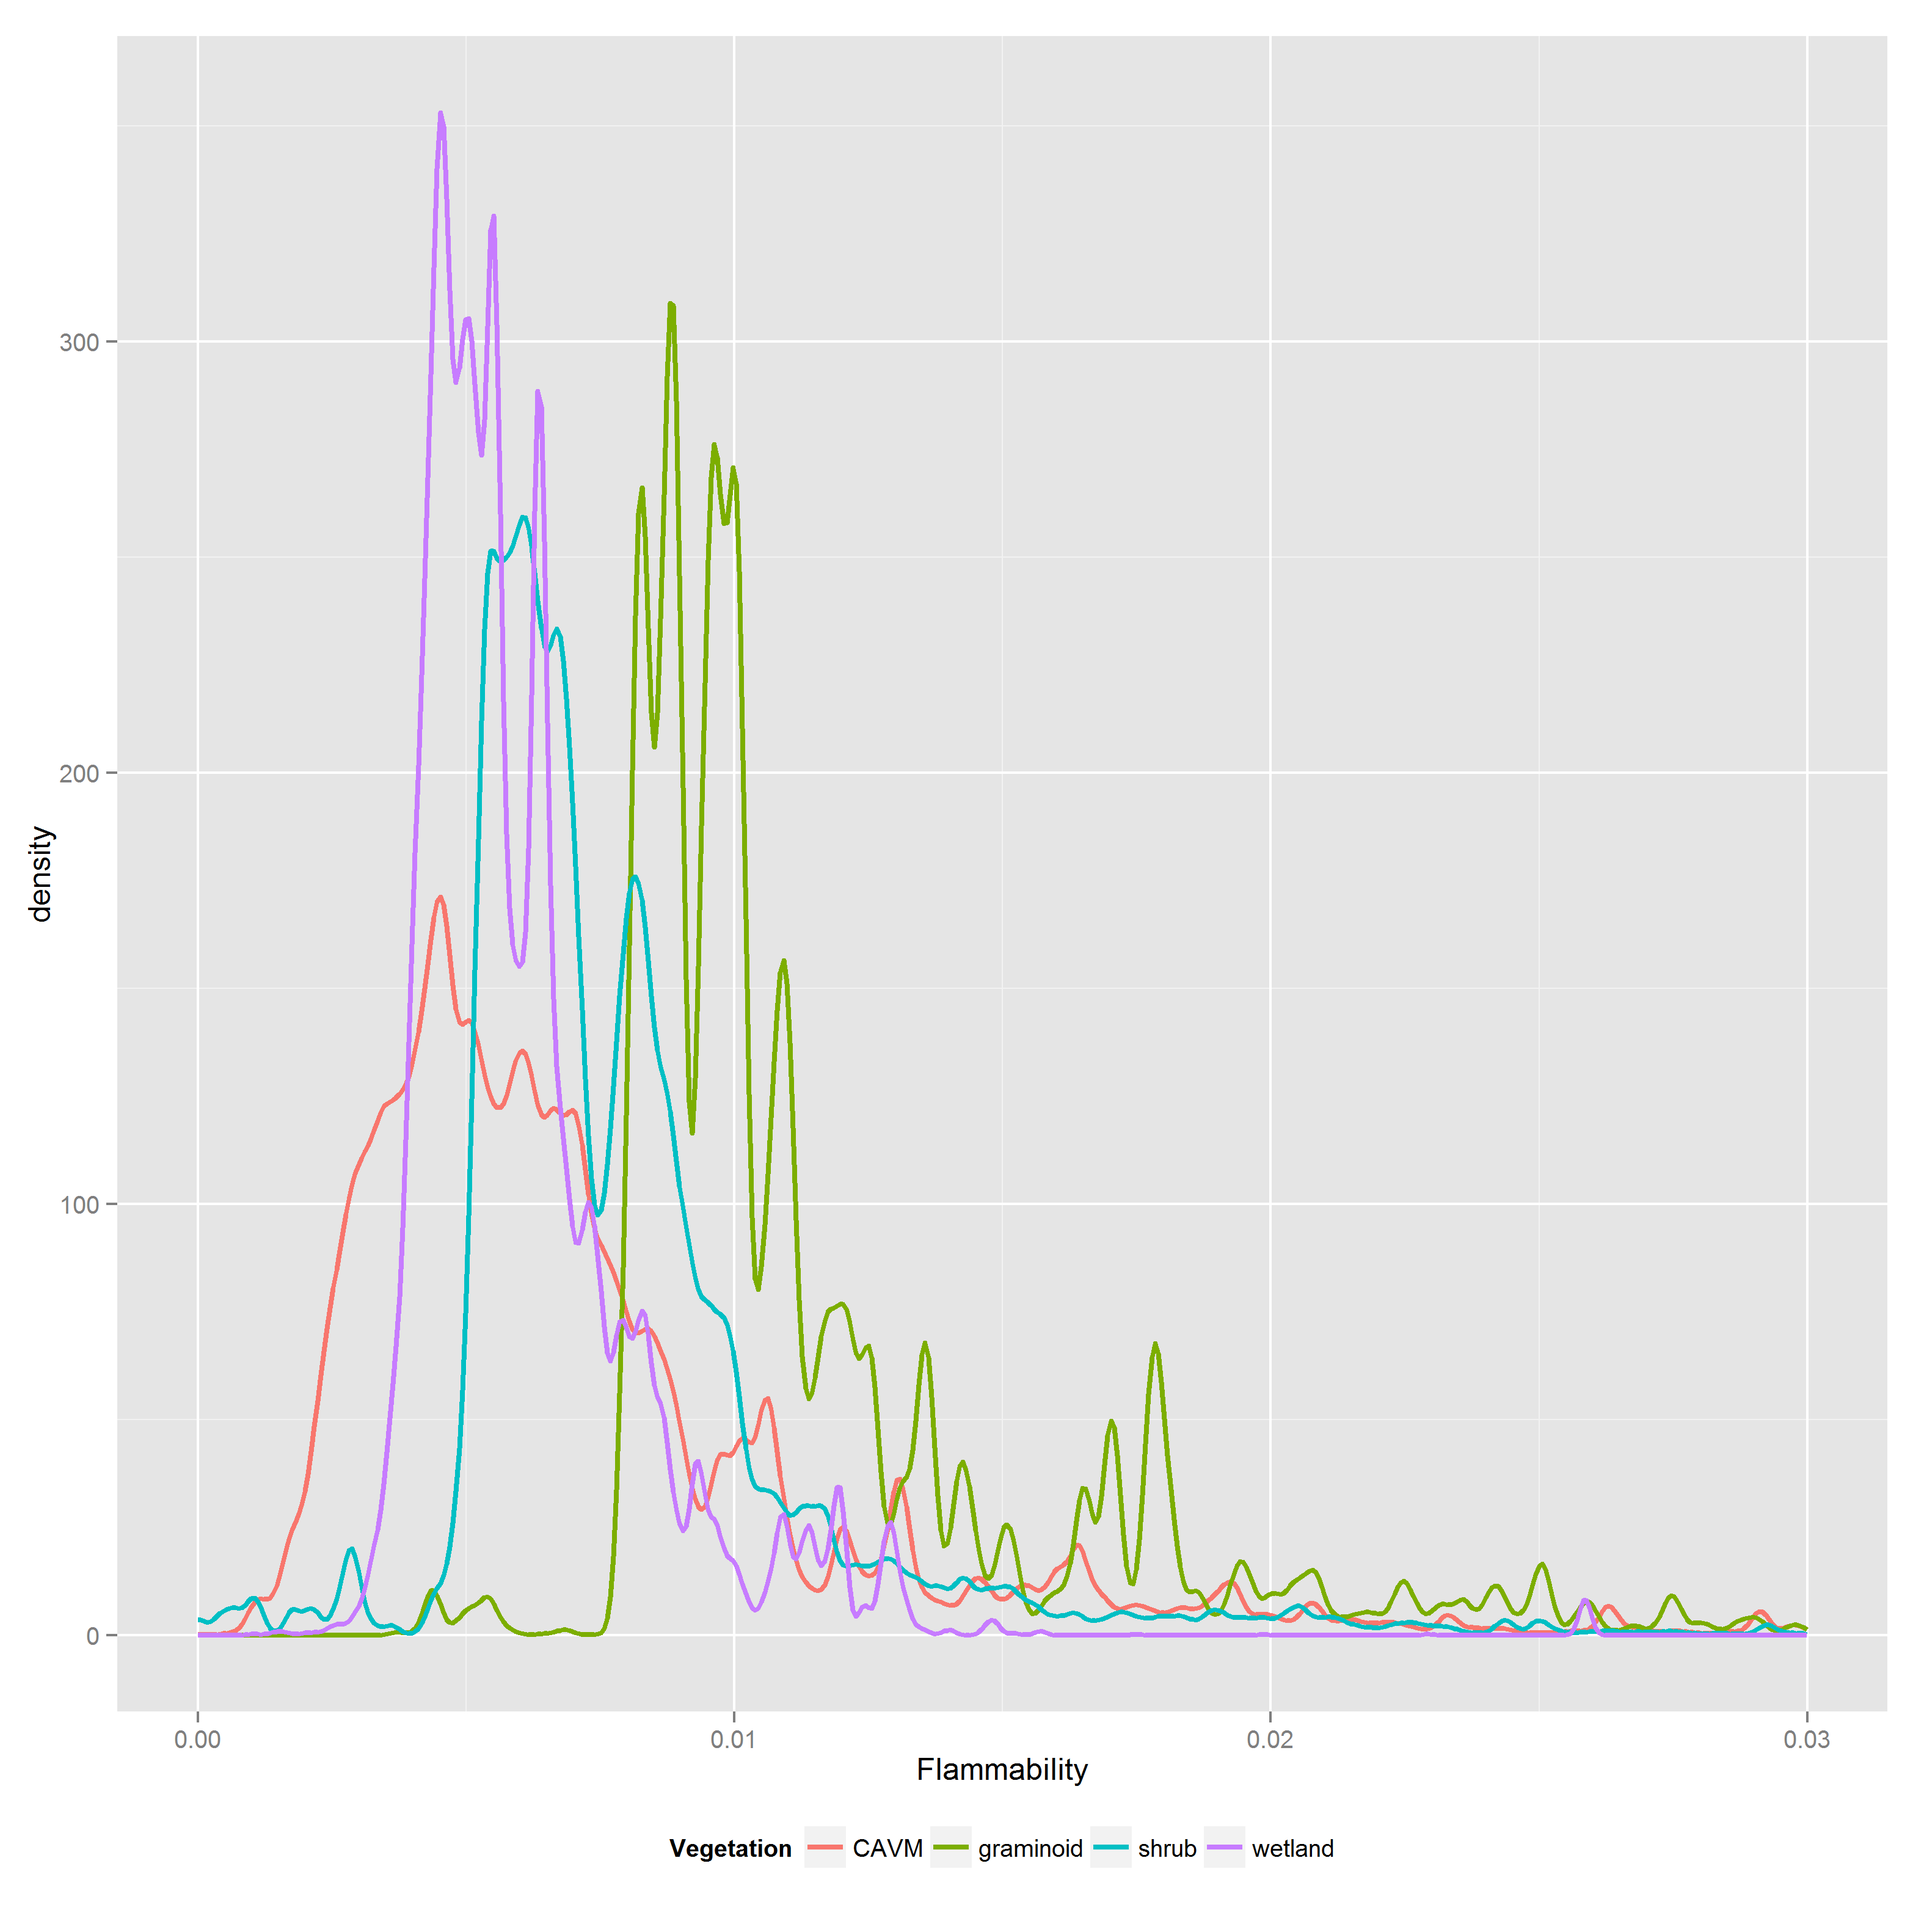
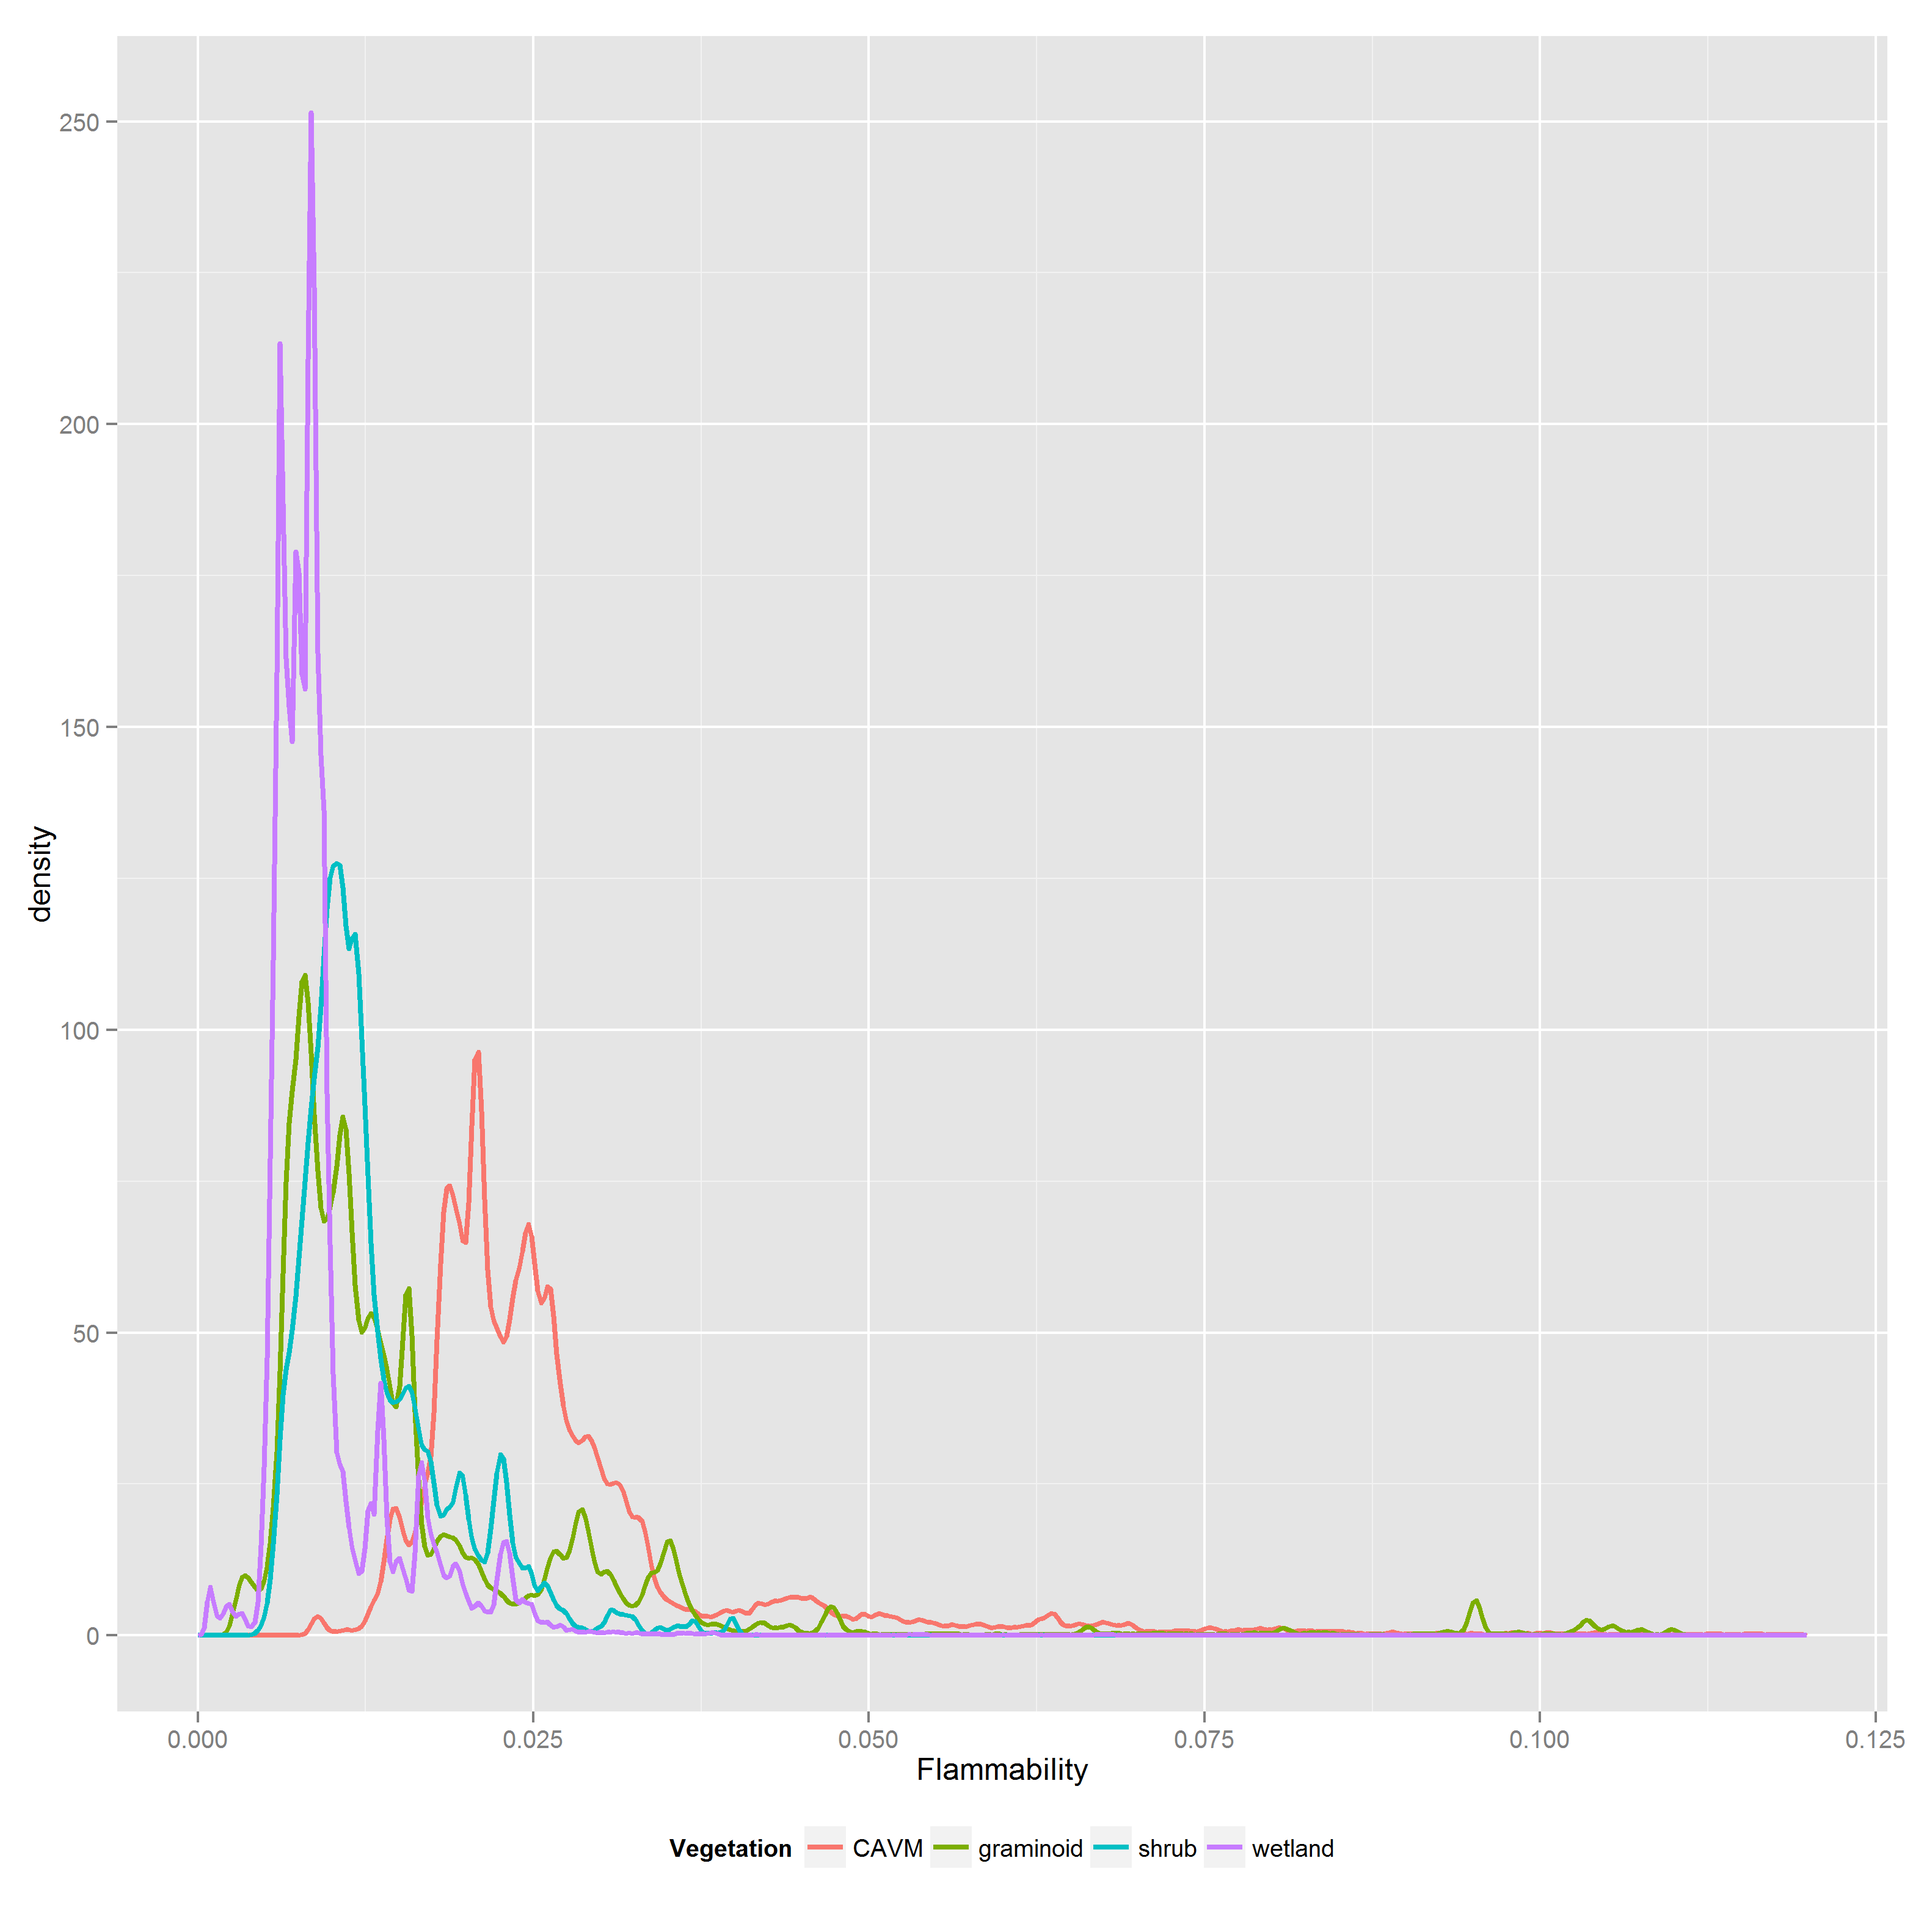
Update docs

diff --git a/docs/html/cavm_flam_dist.html b/docs/html/cavm_flam_dist.html
@@ -209,13 +209,13 @@ img {
 <p>Each plot is broken out by vegetation class within the CAVM tundra region as well as each of three component classes, shrub, graminoid, and wetland tundra.</p>
 <div id="marginal-distribution" class="section level3">
 <h3>Marginal distribution</h3>
-<p>The first plot shows a density function proportional to joint probability distribution for flammability in time and space, marginalized with repsect to time. The time period is 1950 - 2009. The second plot is the same, but truncated to a maximum of 0.03 flammability.</p>
+<p>The first plot shows a density function proportional to joint probability distribution for flammability in time and space, marginalized with repsect to time. The time period is 1950 - 2013. The second plot is the same, but truncated to a maximum of 0.12 flammability.</p>
 <p><img src="cavm_flam_dist_files/figure-html/plot01a-1.png" /></p>
 <p><img src="cavm_flam_dist_files/figure-html/plot01b-1.png" /></p>
 </div>
 <div id="conditional-distribution" class="section level3">
 <h3>Conditional distribution</h3>
-<p>This plot shows multiple overlapping spatial flammability distributions conditioned on each year, also truncated at 0.03.</p>
+<p>This plot shows multiple overlapping spatial flammability distributions conditioned on each year, also truncated at 0.12.</p>
 <p><img src="cavm_flam_dist_files/figure-html/plot02-1.png" /></p>
 <p>The table below provides distribution quantiles by vegetation class.</p>
 <table>
@@ -235,43 +235,43 @@ img {
 <tbody>
 <tr class="odd">
 <td align="left">CAVM</td>
-<td align="right">0.0026</td>
-<td align="right">0.0031</td>
-<td align="right">0.0043</td>
-<td align="right">0.0062</td>
-<td align="right">0.0091</td>
-<td align="right">0.0164</td>
-<td align="right">0.0289</td>
+<td align="right">0.0159</td>
+<td align="right">0.0180</td>
+<td align="right">0.0201</td>
+<td align="right">0.0241</td>
+<td align="right">0.0295</td>
+<td align="right">0.0449</td>
+<td align="right">0.0638</td>
 </tr>
 <tr class="even">
 <td align="left">shrub</td>
-<td align="right">0.0051</td>
-<td align="right">0.0054</td>
-<td align="right">0.0060</td>
-<td align="right">0.0071</td>
-<td align="right">0.0090</td>
-<td align="right">0.0126</td>
-<td align="right">0.0188</td>
+<td align="right">0.0069</td>
+<td align="right">0.0078</td>
+<td align="right">0.0094</td>
+<td align="right">0.0115</td>
+<td align="right">0.0155</td>
+<td align="right">0.0216</td>
+<td align="right">0.0239</td>
 </tr>
 <tr class="odd">
 <td align="left">graminoid</td>
-<td align="right">0.0082</td>
-<td align="right">0.0083</td>
-<td align="right">0.0089</td>
-<td align="right">0.0101</td>
-<td align="right">0.0136</td>
-<td align="right">0.0209</td>
-<td align="right">0.0320</td>
+<td align="right">0.0064</td>
+<td align="right">0.0069</td>
+<td align="right">0.0084</td>
+<td align="right">0.0116</td>
+<td align="right">0.0179</td>
+<td align="right">0.0310</td>
+<td align="right">0.0364</td>
 </tr>
 <tr class="even">
 <td align="left">wetland</td>
-<td align="right">0.0040</td>
-<td align="right">0.0042</td>
-<td align="right">0.0047</td>
 <td align="right">0.0055</td>
-<td align="right">0.0068</td>
-<td align="right">0.0087</td>
-<td align="right">0.0108</td>
+<td align="right">0.0059</td>
+<td align="right">0.0067</td>
+<td align="right">0.0082</td>
+<td align="right">0.0096</td>
+<td align="right">0.0164</td>
+<td align="right">0.0196</td>
 </tr>
 </tbody>
 </table>

diff --git a/docs/md/cavm_flam_dist.md b/docs/md/cavm_flam_dist.md
@@ -14,7 +14,7 @@ Each plot is broken out by vegetation class within the CAVM tundra region as wel
 ### Marginal distribution
 
 The first plot shows a density function proportional to joint probability distribution for flammability in time and space,
-marginalized with repsect to time. The time period is 1950 - 2009. The second plot is the same, but truncated to a maximum of 0.03 flammability.
+marginalized with repsect to time. The time period is 1950 - 2013. The second plot is the same, but truncated to a maximum of 0.12 flammability.
 
 ![](cavm_flam_dist_files/figure-html/plot01a-1.png) 
 
@@ -22,7 +22,7 @@ marginalized with repsect to time. The time period is 1950 - 2009. The second pl
 
 ### Conditional distribution
 
-This plot shows multiple overlapping spatial flammability distributions conditioned on each year, also truncated at 0.03.
+This plot shows multiple overlapping spatial flammability distributions conditioned on each year, also truncated at 0.12.
 
 ![](cavm_flam_dist_files/figure-html/plot02-1.png) 
 
@@ -33,7 +33,7 @@ Table: Critical values associated with flammability by vegetation class
 
 Vegetation     Pct05    Pct10    Pct25    Pct50    Pct75    Pct90    Pct95
 -----------  -------  -------  -------  -------  -------  -------  -------
-CAVM          0.0026   0.0031   0.0043   0.0062   0.0091   0.0164   0.0289
-shrub         0.0051   0.0054   0.0060   0.0071   0.0090   0.0126   0.0188
-graminoid     0.0082   0.0083   0.0089   0.0101   0.0136   0.0209   0.0320
-wetland       0.0040   0.0042   0.0047   0.0055   0.0068   0.0087   0.0108
+CAVM          0.0159   0.0180   0.0201   0.0241   0.0295   0.0449   0.0638
+shrub         0.0069   0.0078   0.0094   0.0115   0.0155   0.0216   0.0239
+graminoid     0.0064   0.0069   0.0084   0.0116   0.0179   0.0310   0.0364
+wetland       0.0055   0.0059   0.0067   0.0082   0.0096   0.0164   0.0196
